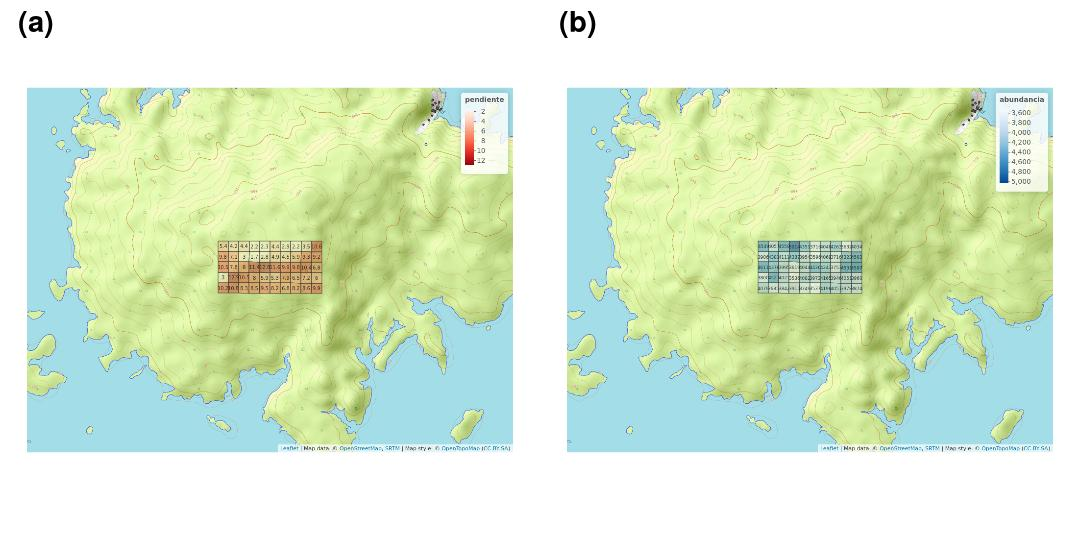
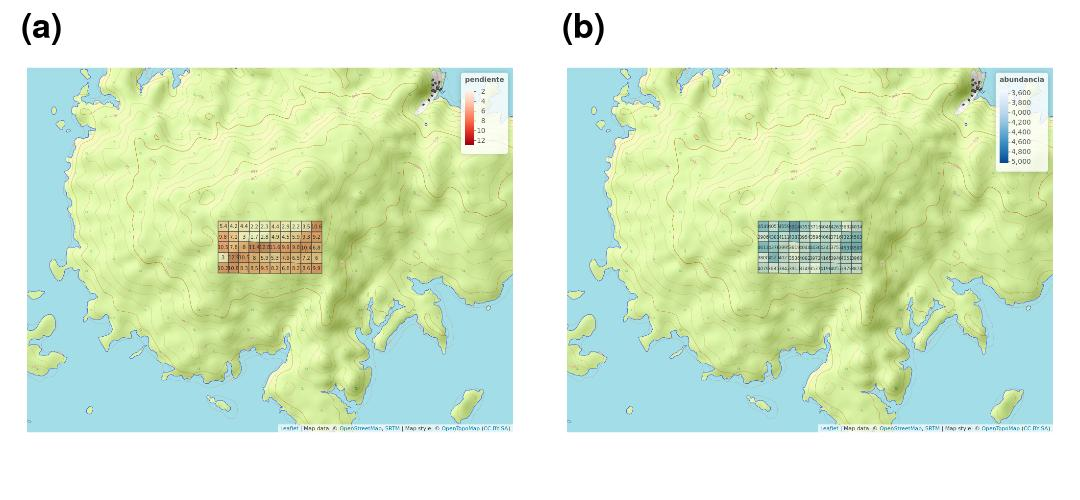
Generated the panel creation demo MD

diff --git a/como_integrar_varias_imagenes_en_una_aka_panel.md b/como_integrar_varias_imagenes_en_una_aka_panel.md
@@ -1,0 +1,111 @@
+Cómo integrar varias imágenes (e.g. gráficos, fotos, mapas) en una sola (aka 'panel')
+================
+JR
+8 de enero, 2021
+
+``` r
+knitr::opts_chunk$set(fig.width=10, fig.height=4)
+```
+
+Cargar paquetes
+---------------
+
+``` r
+library(cowplot)
+```
+
+    ## 
+    ## ********************************************************
+
+    ## Note: As of version 1.0.0, cowplot does not change the
+
+    ##   default ggplot2 theme anymore. To recover the previous
+
+    ##   behavior, execute:
+    ##   theme_set(theme_cowplot())
+
+    ## ********************************************************
+
+``` r
+library(ggplot2)
+library(magick) #En caso de error, "sudo apt install libmagick++-dev"
+```
+
+    ## Linking to ImageMagick 6.9.7.4
+    ## Enabled features: fontconfig, freetype, fftw, lcms, pango, x11
+    ## Disabled features: cairo, ghostscript, rsvg, webp
+
+    ## Using 8 threads
+
+Sin usar función ("didáctico")
+------------------------------
+
+``` r
+pngs <- list.files(pattern='*.png')
+sample(pngs, 3)
+```
+
+    ## [1] "mapas_variables_ambientales_numericas_tmap.png"  
+    ## [2] "matriz_correlacion_geomorf_abun_riq_spearman.png"
+    ## [3] "mapa_upgma_k2.png"
+
+### Creación repetitiva de gráficos
+
+> *Sorry, "Don't repeat yourself"*
+
+``` r
+p1 <- ggdraw() + draw_image(pngs[1], scale = 0.9)
+p2 <- ggdraw() + draw_image(pngs[2], scale = 0.9)
+p3 <- ggdraw() + draw_image(pngs[3], scale = 0.9)
+```
+
+### Generar JPG
+
+``` r
+jpeg('ejemplo_de_panel_varios_plots.jpg', width = 1920, height = 540, res = 150)
+plot_grid(p1, p2, p3, labels = c('(a)','(b)','(c)'), nrow = 1)
+dev.off()
+```
+
+    ## png 
+    ##   2
+
+Usando función `crear_panel`
+----------------------------
+
+> *"Don't repeat yourself"*
+
+Primero, cargar la función:
+
+Desde un clon del repo `scripts-de-analisis-BCI`
+
+``` r
+source('biodata/funciones.R')
+```
+
+Desde cualquier lugar
+
+``` r
+devtools::source_url('https://raw.githubusercontent.com/biogeografia-master/scripts-de-analisis-BCI/master/biodata/funciones.R')
+```
+
+    ## SHA-1 hash of file is b0dc507338fe6a7d927760b5a7a06b2612b753c7
+
+Ejecutar
+
+``` r
+crear_panel('mapa_cuadros_pendiente.png', 'mapa_cuadros_abun_global.png')
+```
+
+![](como_integrar_varias_imagenes_en_una_aka_panel_files/figure-markdown_github/unnamed-chunk-8-1.png)
+
+Guardar en archivo de salida
+
+``` r
+jpeg('ejemplo_de_panel_varios_plots.jpg', width = 1080, height = 500, res = 175)
+crear_panel('mapa_cuadros_pendiente.png', 'mapa_cuadros_abun_global.png')
+dev.off()
+```
+
+    ## png 
+    ##   2
